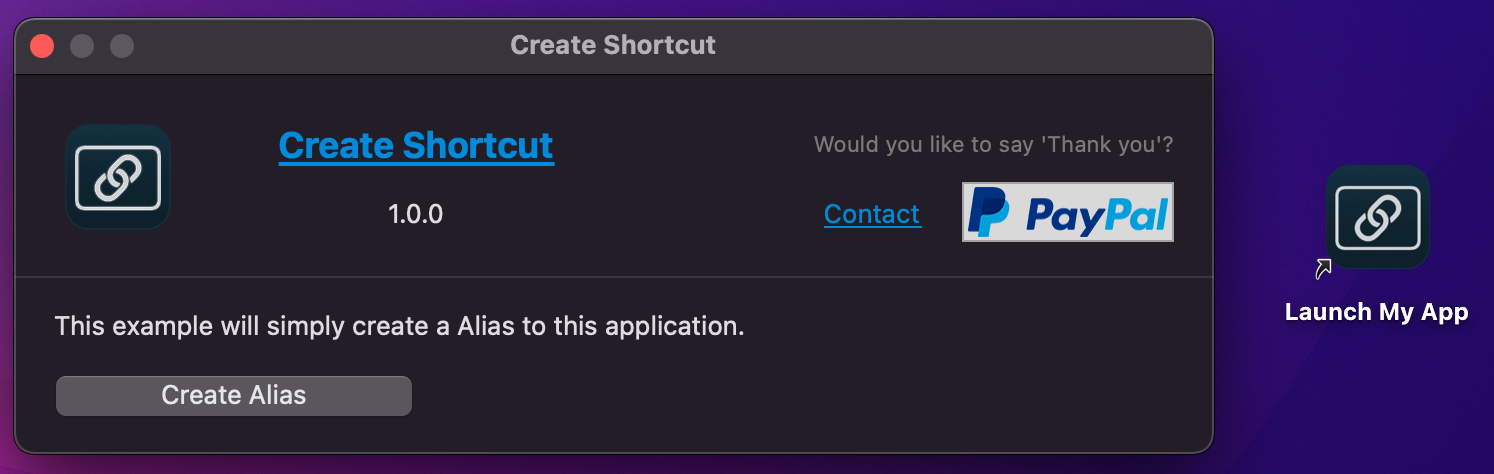
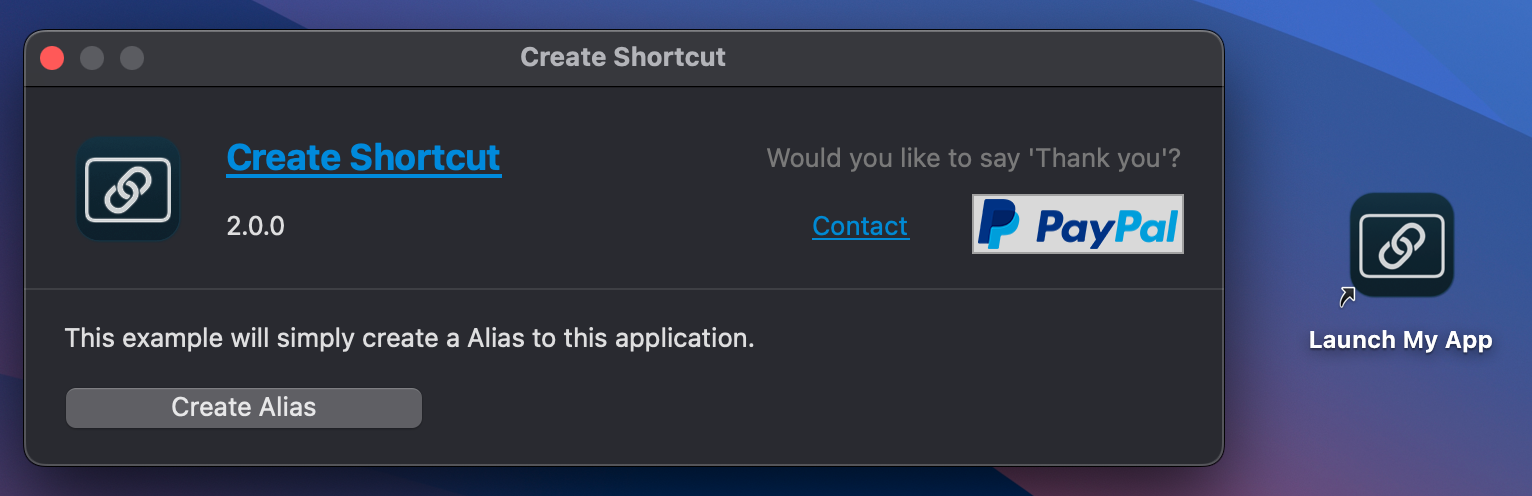
Linux Example: .desktop file for App Launcher (#4)
* GetLinuxUserLocalSharedAppsFolder

* API 2: Dim - Var

* Linux: Save to local share applications

* Linux: Displayname for Launch File

* Update ReadMe

* Update ScreenShots

* Version 2.0.0

diff --git a/README.md b/README.md
@@ -11,8 +11,12 @@ You can use it for example to allow your users to save a Shortcut to launch the 
 1. Windows: Using ```OLEObject``` for [Windows Script Host](https://docs.microsoft.com/en-us/troubleshoot/windows-client/admin-development/create-desktop-shortcut-with-wsh)
 2. macOS: Declares using ```NSURL```'s [writeBookmarkData](https://developer.apple.com/documentation/foundation/nsurl/1408532-writebookmarkdata?language=objc)
 3. Linux: Writes a ```Desktop Launch File```  
-   *Note: Depending on the Linux Distribution you need to manually
-   right click the created file and choose 'Allow Launching'.*
+   * *Depending on the Linux Distribution you need to manually
+     right click the created file and choose 'Allow Launching'.*
+   * *If saved to `~/.local/share/applications/` with filename matching exactly the
+     executable name you then should be able to launch the app using the application
+     Launcher of the operating system. And if saved there, the icon in the side bar will
+     show for the app.*
 
 ### ScreenShots
 Windows: **Shortcut**  
@@ -21,8 +25,8 @@ Windows: **Shortcut**
 macOS: **Alias**  
 ![ScreenShot: macOS Alias](screenshots/macos-alias.png?raw=true)
 
-Linux: **Desktop Launch Icon**  
-![ScreenShot: Linux Desktop Launch Icon](screenshots/linux-desktop-launch-icon.png?raw=true)
+Linux: **Desktop Launch File** *(with Icon)*  
+![ScreenShot: Linux Desktop Launch File](screenshots/linux-desktop-launch-file.png?raw=true)
 
 ## Xojo
 ### Requirements
@@ -35,7 +39,7 @@ The Desktop application Xojo example project ```CreateShortcut.xojo_project``` i
 ### How to use in your own Xojo project?
 1. Copy and Paste the Module ```modShortcut``` to your project. Or just copy and paste the extends method ```CreateShortcut``` to one of your global Modules.
 2. You can then use it as an extension on a FolderItem:   
-    ```anInstanceOfFolderItem.CreateShortcut(saveShortcutFile As FolderItem, useLinuxIconFile As FolderItem = nil)```
+    ```anInstanceOfFolderItem.CreateShortcut(poShortcutFile As FolderItem, psLinuxDisplayname As String = "", poLinuxIconFile As FolderItem = nil)```
 
 ## About
 Juerg Otter is a long term user of Xojo and working for [CM Informatik AG](https://cmiag.ch/). Their Application [CMI LehrerOffice](https://cmi-bildung.ch/) is a Xojo Design Award Winner 2018. In his leisure time Juerg provides some [bits and pieces for Xojo Developers](https://www.jo-tools.ch/).
